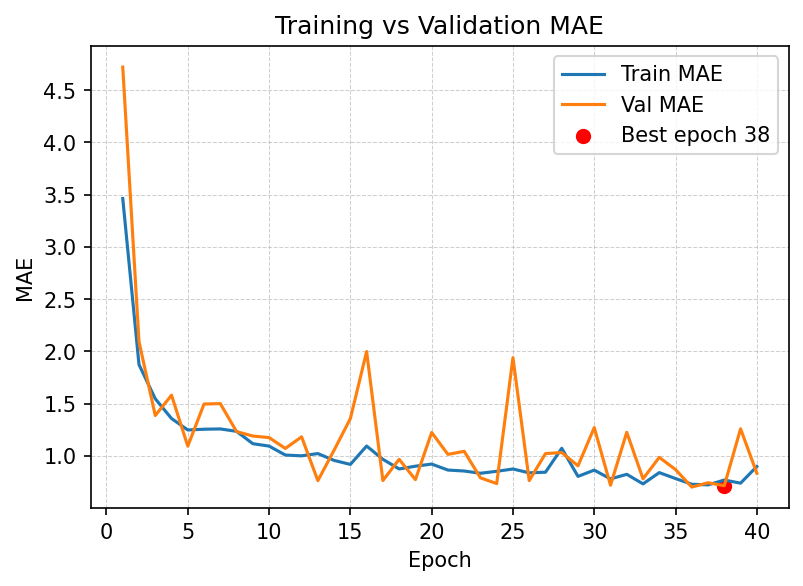
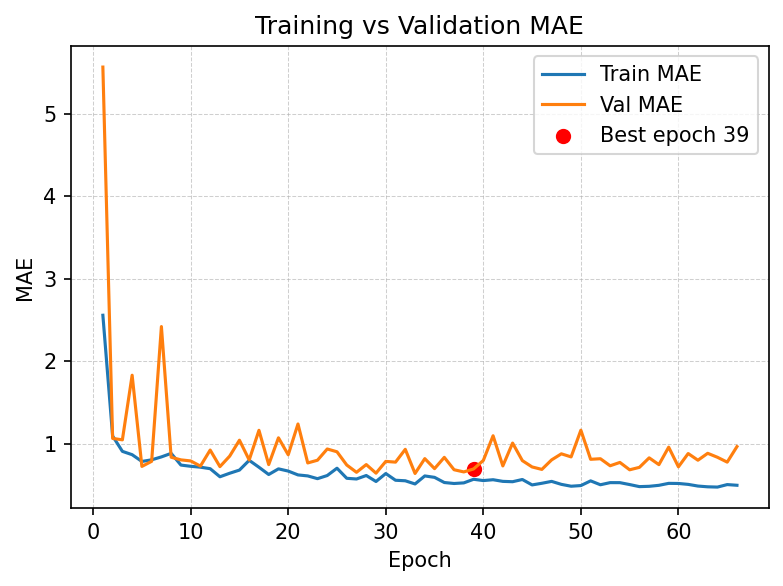
multilayers SAM

diff --git a/models/model_v8/model.py b/models/model_v8/model.py
@@ -1,4 +1,4 @@
-from typing import Tuple
+from typing import Tuple, Union
 
 import torch
 import torch.nn as nn
@@ -79,6 +79,38 @@ class SpatialAttentionModule(nn.Module):
         attn = self.conv(attn)
         scale = self.activation(attn)
         return x * scale
+
+
+class SpatialAttentionStack(nn.Module):
+    """Stacks multiple spatial attention layers for richer context modeling."""
+
+    def __init__(
+        self,
+        kernel_sizes: Union[int, Tuple[int, ...]] = 5,
+        num_layers: int = 1,
+        dropout: float = 0.0,
+    ):
+        super().__init__()
+        num_layers = max(1, int(num_layers))
+        if isinstance(kernel_sizes, (tuple, list)):
+            kernels = [int(k) for k in kernel_sizes if int(k) > 0]
+        else:
+            kernels = [int(kernel_sizes)]
+        if not kernels:
+            raise ValueError('SpatialAttentionStack requires at least one valid kernel size.')
+        if len(kernels) < num_layers:
+            kernels.extend([kernels[-1]] * (num_layers - len(kernels)))
+        else:
+            kernels = kernels[:num_layers]
+        self.layers = nn.ModuleList(SpatialAttentionModule(kernel_size=k) for k in kernels)
+        self.dropout = nn.Dropout2d(p=float(dropout)) if float(dropout) > 0.0 else nn.Identity()
+
+    def forward(self, x: torch.Tensor) -> torch.Tensor:
+        out = x
+        for layer in self.layers:
+            out = layer(out)
+            out = self.dropout(out)
+        return out
 
 
 def _drop_rates(num_blocks: int, drop_path_prob: float) -> Tuple[float, ...]:
@@ -203,10 +235,17 @@ class LettuceSAMFusionNet(nn.Module):
         rgb_widths: Tuple[int, ...] = (32, 64, 96, 128),
         rgbd_widths: Tuple[int, ...] = (32, 64, 96, 128),
         embed_dim: int = 256,
-        spatial_kernel: int = 5,
+        spatial_kernel: Union[int, Tuple[int, ...]] = 5,
+        spatial_layers: int = 1,
+        spatial_dropout: float = 0.0,
     ):
         super().__init__()
-        self.shared_spatial_attn = SpatialAttentionModule(kernel_size=spatial_kernel)
+        layers = max(1, int(spatial_layers))
+        self.shared_spatial_attn = SpatialAttentionStack(
+            kernel_sizes=spatial_kernel,
+            num_layers=layers,
+            dropout=spatial_dropout,
+        )
         self.rgb_branch = RGBRegressionBranch(drop_path_prob=drop_path_prob, widths=rgb_widths, embed_dim=embed_dim)
         self.rgbd_branch = RGBDRegressionBranch(drop_path_prob=drop_path_prob, widths=rgbd_widths, embed_dim=embed_dim)
         fusion_in_dim = self.rgb_branch.embedding_dim + self.rgbd_branch.embedding_dim

diff --git a/models/model_v8/train.py b/models/model_v8/train.py
@@ -53,10 +53,13 @@ class TrainConfig:
     blacklist_ids: Tuple[int, ...] = (163,)
     best_mae_window: int = 5
     ema_decay: float = 0.995
-    drop_path_prob: float = 0.1
+    drop_path_prob: float = 0
     rgb_widths: Tuple[int, ...] = (32, 64, 96, 128)
     rgbd_widths: Tuple[int, ...] = (32, 64, 96, 128)
     embed_dim: int = 256
+    spatial_kernel: Tuple[int, ...] = (3, 5, 7)
+    spatial_layers: int = 3
+    spatial_dropout: float = 0.1
 
     mixup_alpha: float = 0.2
     mixup_prob: float = 0.5
@@ -717,6 +720,9 @@ def main():
             rgb_widths=cfg.rgb_widths,
             rgbd_widths=cfg.rgbd_widths,
             embed_dim=cfg.embed_dim,
+            spatial_kernel=cfg.spatial_kernel,
+            spatial_layers=cfg.spatial_layers,
+            spatial_dropout=cfg.spatial_dropout,
         ).to(device)
         print(f"[train] training fusion regressor ({label})...")
         best_full, train_hist, val_hist, best_val, best_epoch = train_fusion_regressor(
